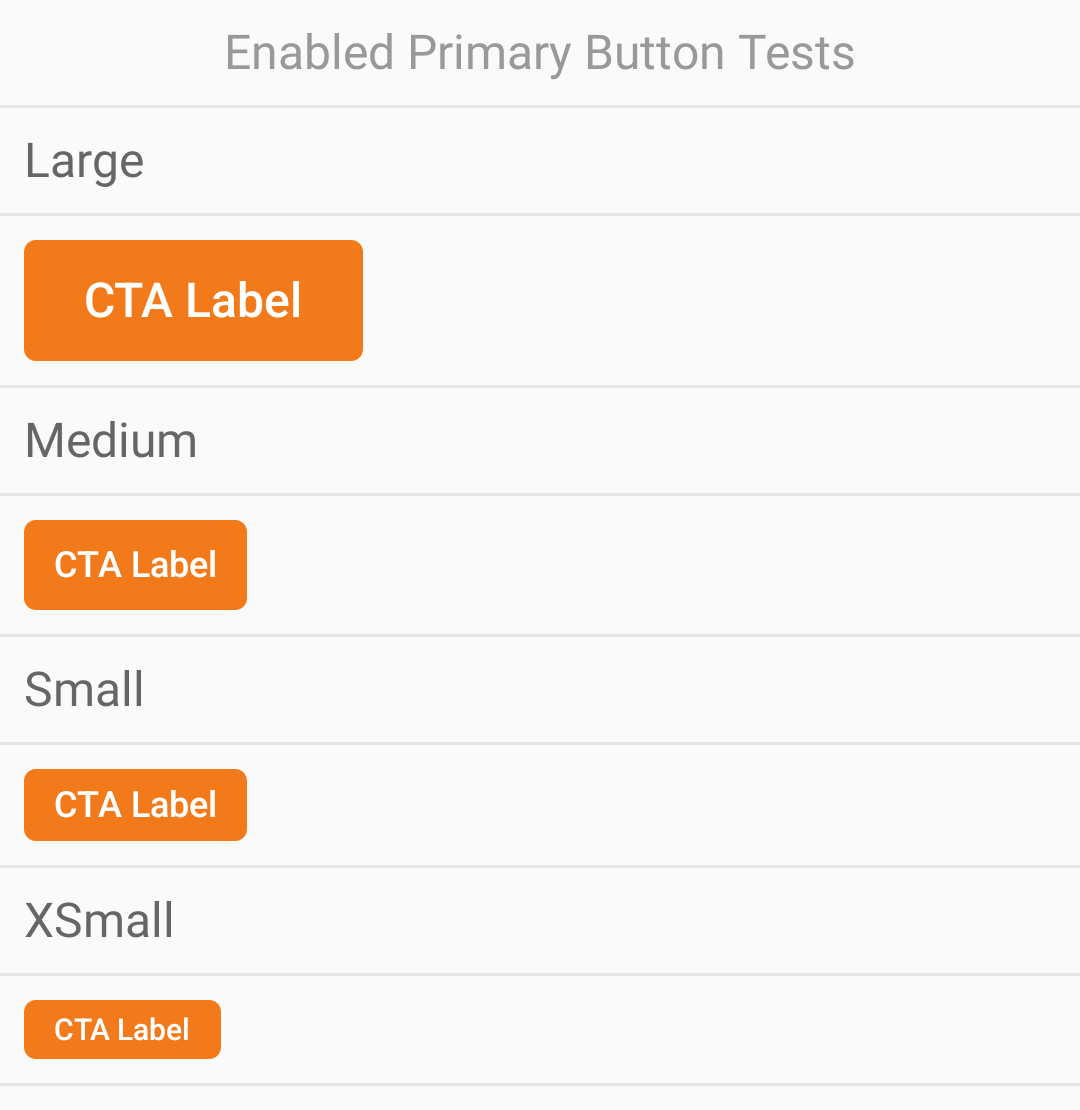
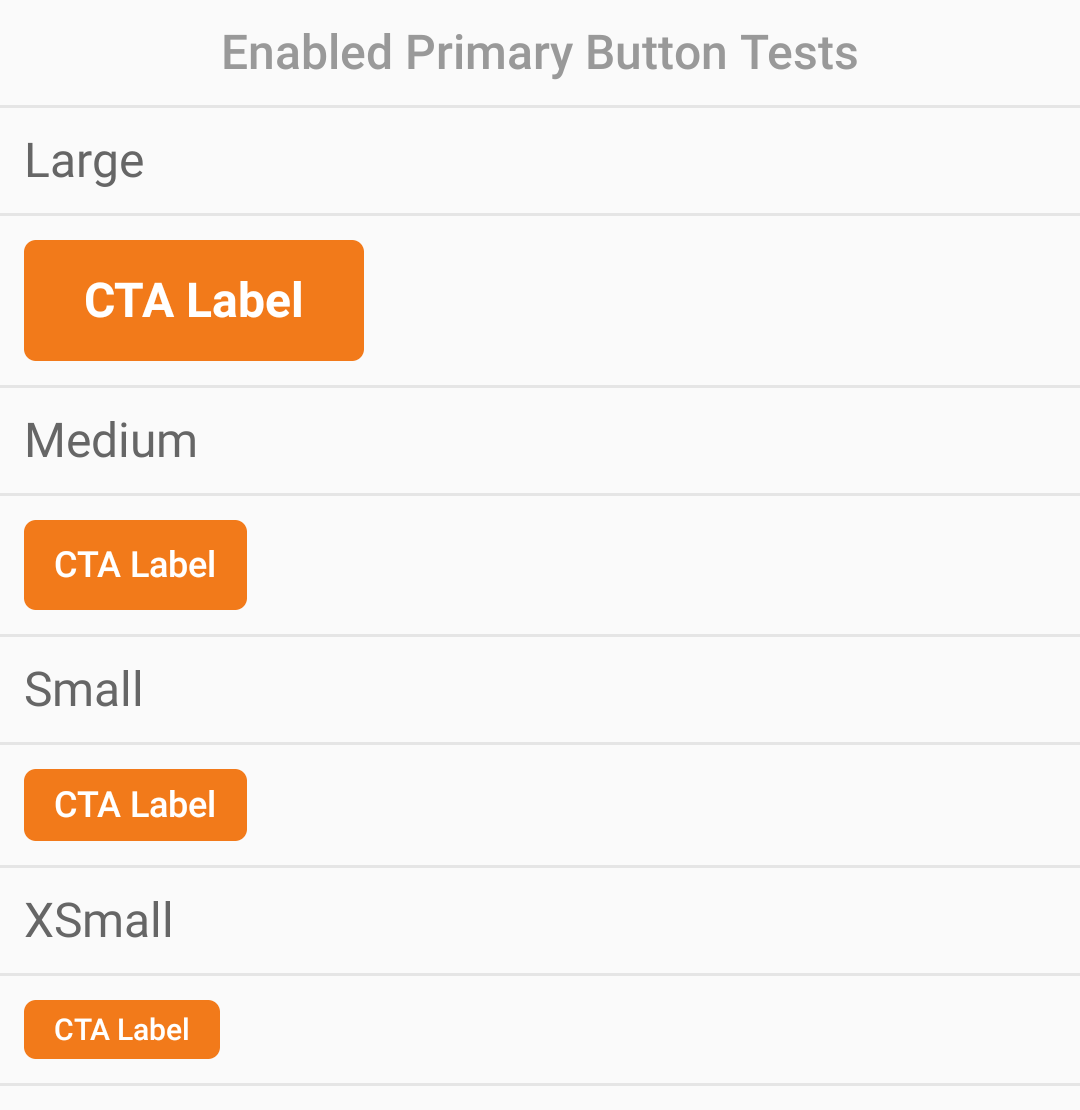
MCHECKOUT-2083 | Fix typo weight issue

diff --git a/app/src/androidTest/java/text/TextWeightTest.kt b/app/src/androidTest/java/text/TextWeightTest.kt
@@ -1,0 +1,45 @@
+package text
+
+import androidx.compose.foundation.layout.Column
+import androidx.compose.material.MaterialTheme
+import com.trendyol.design.core.text.Text
+import com.trendyol.design.ui.theme.Fonts
+import com.trendyol.design.ui.theme.TrendyolColor
+import com.trendyol.theme.TrendyolDesign
+import com.trendyol.theme.TrendyolDesignFontFamily
+import com.trendyol.theme.TrendyolDesignTheme
+import com.trendyol.theme.TrendyolDesignTypography
+import core.BoxWithHorizontalPadding
+import core.DesignScreenshotTest
+import core.DesignScreenshotTestContainer
+import org.junit.Test
+
+internal class TextWeightTest : DesignScreenshotTest() {
+
+    private val contents = listOf(
+        DesignScreenshotTestContainer("TitleColorOnSurfaceVariant3 weights") {
+            BoxWithHorizontalPadding {
+                Column {
+                    Text(
+                        text = "Text",
+                        style = TrendyolDesign.typography.titleBoldColorOnSurfaceVariant3
+                    )
+                    Text(
+                        text = "Text",
+                        style = TrendyolDesign.typography.titleMediumColorOnSurfaceVariant3
+                    )
+                    Text(
+                        text = "Text",
+                        style = TrendyolDesign.typography.titleColorOnSurfaceVariant3
+                    )
+                }
+            }
+        },
+    )
+
+    @Test
+    fun textWeightTests() = runScreenShotTest(
+        testName = "Text weight test",
+        contents = contents
+    )
+}

diff --git a/app/src/main/java/com/trendyol/design/ui/theme/GoogleFontProvider.kt b/app/src/main/java/com/trendyol/design/ui/theme/GoogleFontProvider.kt
@@ -7,19 +7,27 @@ import androidx.compose.ui.text.googlefonts.GoogleFont
 
 object GoogleFontProvider {
 
+    private const val PROVIDER_AUTHORITY = "com.google.android.gms.fonts"
+    private const val PROVIDER_PACKAGE = "com.google.android.gms"
+
     fun getGoogleFontFamily(
         name: String,
         weight: FontWeight,
-        provider: GoogleFont.Provider? = null,
-    ): FontFamily? {
-        return provider?.let {
-            FontFamily(
-                Font(
-                    googleFont = GoogleFont(name),
-                    fontProvider = provider,
-                    weight = weight
-                )
+        provider: GoogleFont.Provider = fontProvider,
+    ): FontFamily {
+        return FontFamily(
+            Font(
+                googleFont = GoogleFont(name),
+                fontProvider = provider,
+                weight = weight
             )
-        }
+        )
     }
+
+    private val fontProvider: GoogleFont.Provider =
+        GoogleFont.Provider(
+            providerAuthority = PROVIDER_AUTHORITY,
+            providerPackage = PROVIDER_PACKAGE,
+            certificates = com.trendyol.design.R.array.com_google_android_gms_fonts_certs
+        )
 }

diff --git a/app/src/main/java/com/trendyol/design/ui/theme/Fonts.kt b/app/src/main/java/com/trendyol/design/ui/theme/Fonts.kt
@@ -1,8 +1,8 @@
 package com.trendyol.design.ui.theme
 
-import androidx.compose.ui.text.font.FontFamily
 import androidx.compose.ui.text.font.FontWeight
 import androidx.compose.ui.text.googlefonts.GoogleFont
+import com.trendyol.design.R
 
 object Fonts {
 
@@ -14,18 +14,11 @@ object Fonts {
         GoogleFont.Provider(
             providerAuthority = PROVIDER_AUTHORITY,
             providerPackage = PROVIDER_PACKAGE,
-            certificates = -1,
+            certificates = R.array.com_google_android_gms_fonts_certs,
         )
 
     val RobotoRegular = GoogleFontProvider.getGoogleFontFamily("Roboto", FontWeight.Normal, fontProvider)
-        ?: FontFamily.Default
-
     val RobotoMedium = GoogleFontProvider.getGoogleFontFamily("Roboto", FontWeight.Medium, fontProvider)
-        ?: FontFamily.Default
-
     val RobotoSemiBold = GoogleFontProvider.getGoogleFontFamily("Roboto", FontWeight.SemiBold, fontProvider)
-        ?: FontFamily.Default
-
     val RobotoBold = GoogleFontProvider.getGoogleFontFamily("Roboto", FontWeight.Bold, fontProvider)
-        ?: FontFamily.Default
 }
